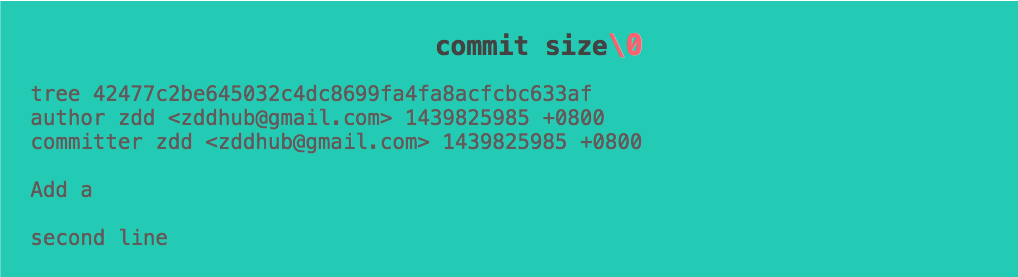
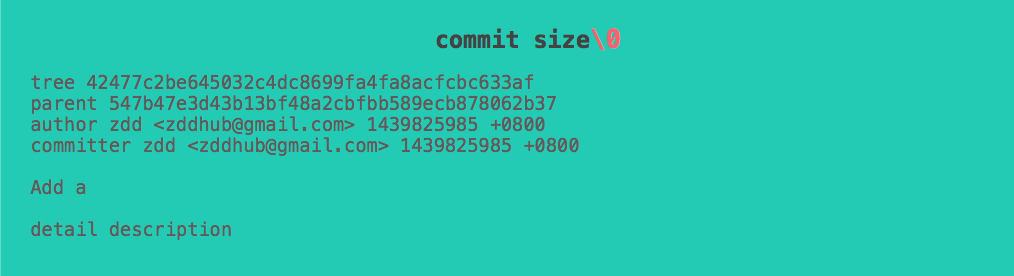
Update blog: 2015-08-05-dit-struct.md

diff --git a/_posts/2015-08-05-dit-struct.md b/_posts/2015-08-05-dit-struct.md
@@ -7,14 +7,16 @@ tags: "dit git"
 
 > 穷则独善其身，达则兼济天下。一个人一旦能够喂饱自己并有个安身之所，剩下的就是为别人做点什么了。我现在所做的一切，还都是为了自己。
 
-Dit 和 Git 使用相同的设计思路和数据结构，在表述上会优先使用 Git，当出现差别时会特别说明。以下说明两种最基本的数据结构：文件系统和对象。
+Dit 和 Git 使用相同的设计思路和数据结构，在表述上会优先使用 Git，当出现差别时会特别说明。以下说明两种最基本的数据结构：当前目录缓存和对象。
 
 <!-- more -->
 
-Git 文件系统
+Git 当前目录缓存
 -----------
 
-Dit 和 Git 一样，存储文件快照，所谓快照，就是指文件本身(实际使用 zlib 压缩之后存储)，如果文件没有改变，那么只存储该文件的引用。你可以使用 `git init` 初始化一个 Git 仓库, 并查看生成的文件目录结构：
+Git 做为一个内容控制系统(版本控制器)，所有的信息都保存在当前目录缓存(.git/)中，当前目录缓存保存了所有历史数据和当前项目的状态，保证 Git 的正常运行。
+
+Dit 和 Git 一样，存储文件快照，所谓快照，就是指文件本身(实际使用 [zlib](http://www.zlib.net/) 压缩之后存储)，如果文件没有改变，那么只存储该文件的引用。你可以使用 `git init` 初始化一个 Git 仓库, 并查看生成的文件目录结构：
 
 ```sh
 $ git init
@@ -78,9 +80,9 @@ blob 记录项目文件快照。实际文件通过 [zlib](http://www.zlib.net/) 
 
 ![blob]({{ post.img | replace: '..', site.url }}/asserts/images/2015-08-05/blob.png)
 
-blob 只保存文件的实际内容，不能引用其它 object，没有签名和认证，使用sha1值来保证存储内容的正确性。blob 是 Git 中最小的存储结构。blob 文件生成后不再改变。
+blob 只保存文件的实际内容，不能引用其它 object，没有签名和认证，使用sha1值来保证存储内容的正确性。blob 是 Git 中最小的内容存储结构。blob 文件生成后不再改变。
 
-假如需要添加一个内容为 dit 的文件 a 到 Git 仓库，则实际在 objects 中生成的快照为：
+假如需要添加一个内容为 dit 的文件 a 到 Git 仓库，则实际在 objects 中生成的快照文件为：
 
 ```sh
 $ tree .git/objects/
@@ -105,7 +107,7 @@ $ echo -e "blob 4\0dit" | shasum
 echo -e "blob 4\0dit" | openssl sha1
 (stdin)= 8f2c96ad676d7423d2c319fffb78cfb87c78c3e2
 
-# go 的实现: 我是试了很久才想到 \x00 的
+# go 的实现: 我是试了很久才想到 \x00 的，:(
 fmt.Printf("%x\n", sha1.Sum([]byte("blob 4\x00dit\n")))
 ```
 
@@ -140,20 +142,20 @@ committer zdd <zddhub@gmail.com> 1439825985 +0800
 
 Add a
 
-second line
+detail description
 ```
 
-如果一个 commit 对象没有 parent 信息，那把它称为 root 结点。理论上每个项目可以有多个 root 结点，但在实际使用中，通常把 Init commit 做为 root 结点。
+如果一个 commit 对象没有 parent 信息，那把它称为 root 结点。理论上每个项目可以有多个 root 结点，但在实际使用中，通常把 Initial commit 做为 root 结点。
 
-加头 `"commit size\0"` 后计算 sha1 值，并用 zlib 压缩后存储在 .git/objects 目录下。
+加头 `"commit size\0"` 后计算 sha1 值，并用 zlib 压缩后存储在 `.git/objects` 目录下。
 
 ![blob]({{ post.img | replace: '..', site.url }}/asserts/images/2015-08-05/commit.png)
 
 ### tag
 
-软件开发时，每个 commit 就是一个版本，tag 持有一个 commit，做为一个 “重要” 版本存在。tag 持有的 commit id 存在 ｀.git/refs/tags｀ 中。在初始版本的 Dit 中不被实现。
+软件开发时，每个 commit 就是一个版本，tag 持有一个 commit，做为一个 “重要” 版本存在。tag 持有的 commit id 存在 `.git/refs/tags` 中。在初始版本的 Dit 中不被实现。
 
 缓存
 ---
 
-Git 在缓存 (cache) 中记录当前仓库的状态，缓存的状态存储在 .git/index 文件中，来保证不同命令之间信息的传递。缓存是 Git 运作的关键, 搞清了它的数据结构和运作模式，Git 的实现思路也就呼之欲出了。
+Git 在缓存 (cache) 中记录当前仓库的状态，缓存的状态存储在 `.git/index` 文件中，来保证不同命令之间信息的传递。缓存是 Git 运作的关键, 搞清了它的数据结构和运作模式，Git 的实现思路也就呼之欲出了。
